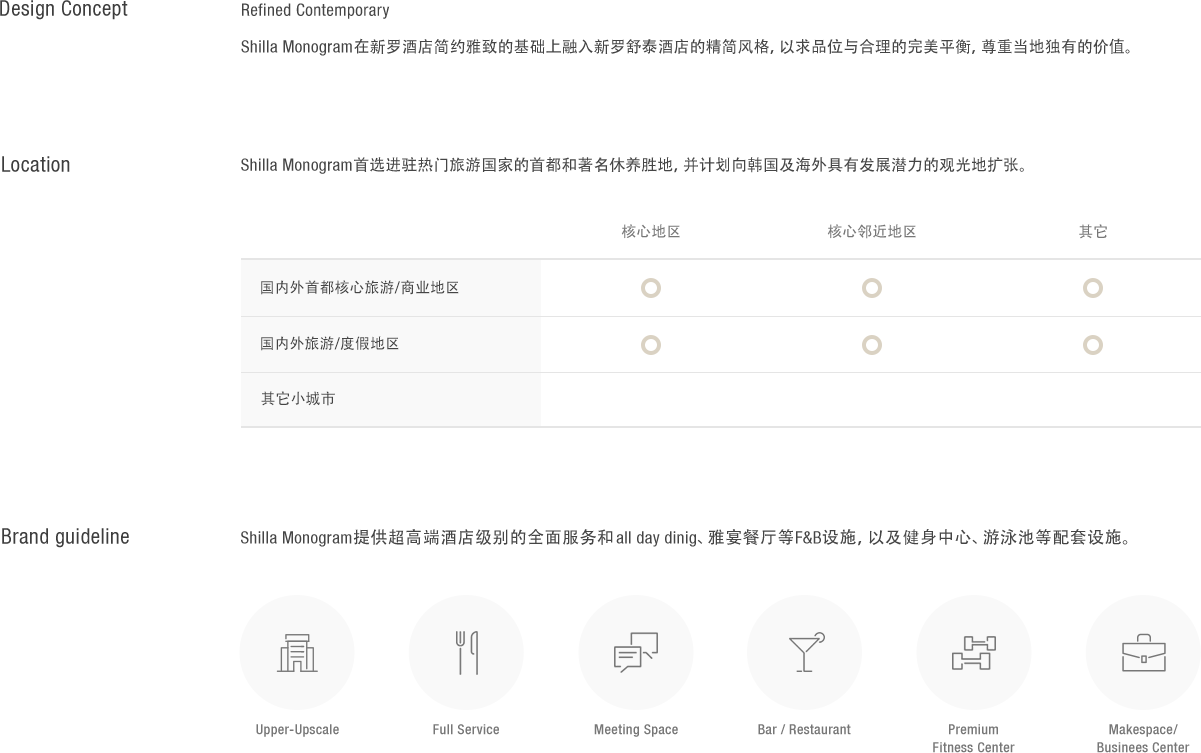
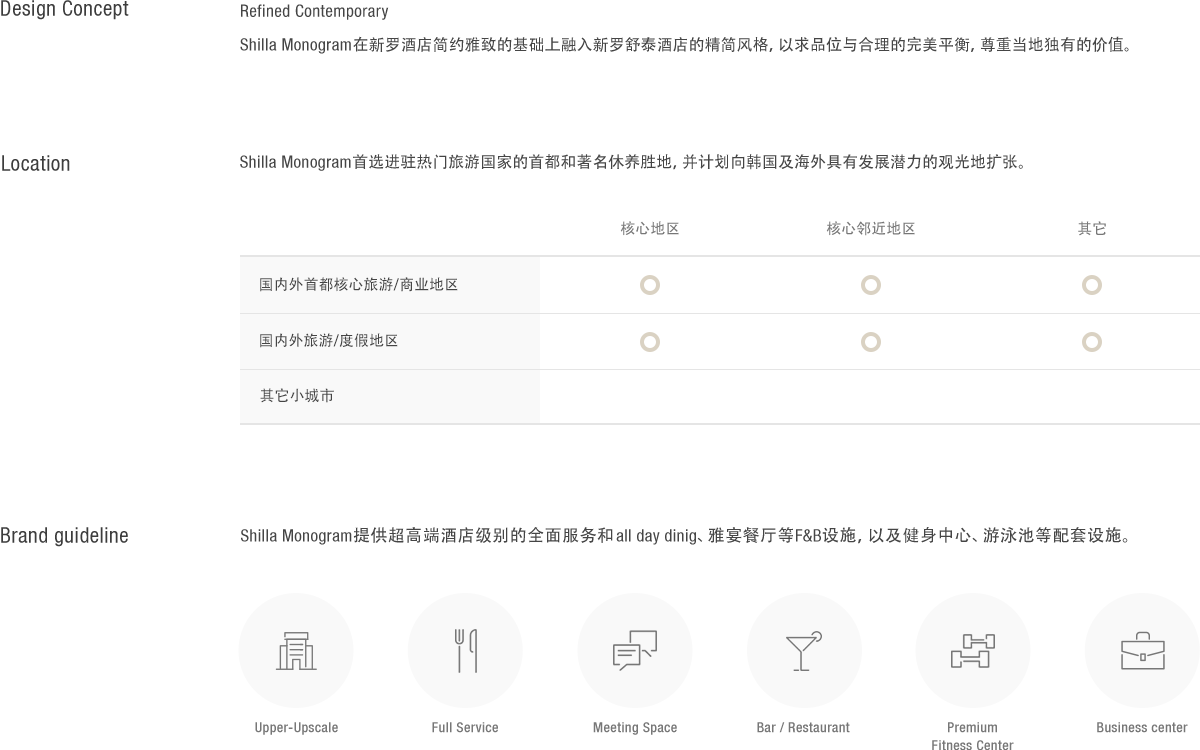
업댓

diff --git a/pc_zh.css b/pc_zh.css
@@ -4,16 +4,16 @@
 .SubControl{position: relative;left: 50%;margin: 0 0 0 -960px;width: 1920px;}
 .HotelDevelopInfo, .OurBrands, .ShillaSwiper, .MapTab, .HotelShilla, .Project, .HotelDevelopBtn, .Growth, .HotelDevelopBtn{position: relative;margin:0 auto;text-align: center;}
 /* 구간별 여백 정리 */
-.HotelDevelopInfo{padding: 80px 0 50px;}
-.HotelDevelopInfo .Hospitality{padding-top: 100px;}
-.HotelDevelopInfo .Global{padding-top: 80px;}
-.HotelDevelopMap{width: 100%;padding-top: 40px;background: #f7f7f7;}
-.OurBrands{padding: 80px 0;}
-.ShillaSwiper-inner-01{padding: 80px 0 50px;}
-.ShillaSwiper-inner-02{padding: 50px 0 80px;}
-.HotelShillaList{width: 100%;padding: 80px 0;background: #f1ead8;}
-.Project{padding-top: 80px;}
-.Growth{padding: 80px 0;}
+.HotelDevelopInfo{margin: 80px 0 50px;}
+.HotelDevelopInfo .Hospitality{margin: 80px 0;}
+.HotelDevelopInfo .Global{margin: 80px 0 50px;}
+.HotelDevelopMap{width: 100%;margin: 50px 0 80px;padding-top: 40px;background: #f7f7f7;}
+.OurBrands{margin: 80px 0;}
+.ShillaSwiper-inner-01{margin: 80px 0 50px;}
+.ShillaSwiper-inner-02{margin: 50px 0 80px;}
+.HotelShillaList{width: 100%;margin: 80px 0;padding: 80px 0;background: #f1ead8;}
+.Project{margin: 80px 0;}
+.Growth{margin: 80px 0;}
 /* contain */
 .MapTabs .MapTabsWrap{position: relative;}
 .MapTabs .Tabs, .Intro {overflow: hidden;position: absolute;display: flex;align-items: center;justify-content: center;list-style: none;width: 100%;z-index: 1;}
@@ -24,17 +24,15 @@
 .IntroBar{position: relative;top: 43px;z-index: 1;height: 1px;background: #e5e5e5;}
 .IntroWrap .Intro{position: relative;}
 .IntroWrap .Intro li a {display: flex;}
-.IntroSwiper .swiper-container{width: 1200px;padding-bottom: 23px;}
+.IntroSwiper .swiper-container{width: 1200px;padding-bottom: 23px;margin: 50px auto;}
 .IntroSwiper .swiper-pagination{bottom: 0;font-size: 15px;color: #999;text-align: right;}
 .IntroSwiper .swiper-pagination-current{color: #101010;font-weight: bold;}
 .IntroSwiper .swiper-pagination-total{color: #999;}
 .IntroSwiper .swiper-button-prev{top: 50%;left: 0px;transform: translateY(-50%);margin: 0;position: absolute;z-index: 10;width: 60px;height: 65px !important;background: url(https://www.shilla.net/images/ko/jeju/main/slidePrev.png) no-repeat 0px 0px;text-indent: -9999%;overflow: hidden;margin-top: -28px;}
 .IntroSwiper .swiper-button-next{top: 50%;right: 0px;transform: translateY(-50%);margin: 0;position: absolute;z-index: 10;width: 60px;height: 65px !important;background: url(https://www.shilla.net/images/ko/jeju/main/slideNext.png) no-repeat 0px 0px;text-indent: -9999%;overflow: hidden;margin-top: -26px;}
 /* button */
-.HotelDevelop .btnSet{display: flex;justify-content: center;height: unset;margin-bottom: 150px;}
+.HotelDevelop .btnSet{display: flex;justify-content: center;height: unset;margin: 80px 0 150px;}
 .HotelDevelop .btnSet li{width:unset;margin-right: 10px;}
-/* hidden */
-table{text-align: left;}
 /* 공통 main.css 푸터부분 수정 css */
 .foot .localBox .linkInfo .introduction dd{margin: 0 !important;}
 .foot .localBox .linkInfo .introduction dd.d2 a{width: 82px !important;}
@@ -45,6 +43,6 @@ table{text-align: left;}
 .foot .localBox .linkInfo .ContactInfo{width: 410px !important;}
 .foot .localBox .linkInfo .ContactInfo::after{content: '';width: 1px;height: 50px;background: #e8e3ce;position: absolute;top: 0;right: 0;}
 .foot .localBox .linkInfo .ContactInfo dd{width: 410px !important;}
-
 /* 이미지 히든 텍스트 */
 .hidden{display: none;}
+.hidden table{text-align: left;}

diff --git a/pc_ko.css b/pc_ko.css
@@ -4,16 +4,16 @@
 .SubControl{position: relative;left: 50%;margin: 0 0 0 -960px;width: 1920px;}
 .HotelDevelopInfo, .OurBrands, .ShillaSwiper, .MapTab, .HotelShilla, .Project, .HotelDevelopBtn, .Growth, .HotelDevelopBtn{position: relative;margin:0 auto;text-align: center;}
 /* 구간별 여백 정리 */
-.HotelDevelopInfo{padding: 80px 0 50px;}
-.HotelDevelopInfo .Hospitality{padding-top: 100px;}
-.HotelDevelopInfo .Global{padding-top: 80px;}
-.HotelDevelopMap{width: 100%;padding-top: 40px;background: #f7f7f7;}
-.OurBrands{padding: 80px 0;}
-.ShillaSwiper-inner-01{padding: 80px 0 50px;}
-.ShillaSwiper-inner-02{padding: 50px 0 80px;}
-.HotelShillaList{width: 100%;padding: 80px 0;background: #f1ead8;}
-.Project{padding-top: 80px;}
-.Growth{padding: 80px 0;}
+.HotelDevelopInfo{margin: 80px 0 50px;}
+.HotelDevelopInfo .Hospitality{margin: 80px 0;}
+.HotelDevelopInfo .Global{margin: 80px 0 50px;}
+.HotelDevelopMap{width: 100%;margin: 50px 0 80px;padding-top: 40px;background: #f7f7f7;}
+.OurBrands{margin: 80px 0;}
+.ShillaSwiper-inner-01{margin: 80px 0 50px;}
+.ShillaSwiper-inner-02{margin: 50px 0 80px;}
+.HotelShillaList{width: 100%;margin: 80px 0;padding: 80px 0;background: #f1ead8;}
+.Project{margin: 80px 0;}
+.Growth{margin: 80px 0;}
 /* contain */
 .MapTabs .MapTabsWrap{position: relative;}
 .MapTabs .Tabs, .Intro {overflow: hidden;position: absolute;display: flex;align-items: center;justify-content: center;list-style: none;width: 100%;z-index: 1;}
@@ -24,22 +24,22 @@
 .IntroBar{position: relative;top: 43px;z-index: 1;height: 1px;background: #e5e5e5;}
 .IntroWrap .Intro{position: relative;}
 .IntroWrap .Intro li a {display: flex;}
-.IntroSwiper .swiper-container{width: 1200px; padding-bottom: 23px;}
+.IntroSwiper .swiper-container{width: 1200px; padding-bottom: 23px;margin: 50px auto;}
 .IntroSwiper .swiper-pagination{bottom: 0;font-size: 15px;color: #999;text-align: right;}
 .IntroSwiper .swiper-pagination-current{color: #101010;font-weight: bold;}
 .IntroSwiper .swiper-pagination-total{color: #999;}
 .IntroSwiper .swiper-button-prev{top: 50%;left: 0px;transform: translateY(-50%);margin: 0;position: absolute;z-index: 10;width: 60px;height: 65px !important;background: url(https://www.shilla.net/images/ko/jeju/main/slidePrev.png) no-repeat 0px 0px;text-indent: -9999%;overflow: hidden;margin-top: -28px;}
 .IntroSwiper .swiper-button-next{top: 50%;right: 0px;transform: translateY(-50%);margin: 0;position: absolute;z-index: 10;width: 60px;height: 65px !important;background: url(https://www.shilla.net/images/ko/jeju/main/slideNext.png) no-repeat 0px 0px;text-indent: -9999%;overflow: hidden;margin-top: -26px;}
 /* button */
-.HotelDevelop .btnSet{display: flex;justify-content: center;height: unset;margin-bottom: 150px;}
+.HotelDevelop .btnSet{display: flex;justify-content: center;height: unset;margin: 80px 0 150px;}
 .HotelDevelop .btnSet li{width:unset;margin-right: 10px;}
-/* hidden */
-.hidden table{text-align: left;}
 /* 공통 main.css 푸터부분 수정 css */
 .foot .localBox .linkInfo .introduction dd.d2 a{width: 83px !important;}
 .foot .localBox .linkInfo .introduction dd.d3 a{width: 77px !important;}
 .foot .localBox .linkInfo .introduction dd.d8 a {width: 84px !important;}
 .foot .localBox .linkInfo .introduction{background: url(./images/ko/hub/sub/HublocalBoxLinkInfo.gif) no-repeat 0px 0 !important;}
-
+/* 이미지 히든 텍스트 */
+.hidden{display: none;}
+.hidden table{text-align: left;}
 
 

diff --git a/pc_en.css b/pc_en.css
@@ -4,16 +4,16 @@
 .SubControl{position: relative;left: 50%;margin: 0 0 0 -960px;width: 1920px;}
 .HotelDevelopInfo, .OurBrands, .ShillaSwiper, .MapTab, .HotelShilla, .Project, .HotelDevelopBtn, .Growth, .HotelDevelopBtn{position: relative;;margin:0 auto;text-align: center;}
 /* 구간별 여백 정리 */
-.HotelDevelopInfo{padding: 80px 0 50px;}
-.HotelDevelopInfo .Hospitality{padding-top: 100px;}
-.HotelDevelopInfo .Global{padding-top: 80px;}
-.HotelDevelopMap{width: 100%;padding-top: 40px;background: #f7f7f7;}
-.OurBrands{padding: 80px 0;}
-.ShillaSwiper-inner-01{padding: 80px 0 50px;}
-.ShillaSwiper-inner-02{padding: 50px 0 80px;}
-.HotelShillaList{width: 100%;padding: 80px 0;background: #f1ead8;}
-.Project{padding-top: 80px;}
-.Growth{padding: 80px 0;}
+.HotelDevelopInfo{margin: 80px 0 50px;}
+.HotelDevelopInfo .Hospitality{margin: 80px 0;}
+.HotelDevelopInfo .Global{margin: 80px 0 50px;}
+.HotelDevelopMap{width: 100%;margin: 50px 0 80px;padding-top: 40px;background: #f7f7f7;}
+.OurBrands{margin: 80px 0;}
+.ShillaSwiper-inner-01{margin: 80px 0 50px;}
+.ShillaSwiper-inner-02{margin: 50px 0 80px;}
+.HotelShillaList{width: 100%;margin: 80px 0;padding: 80px 0;background: #f1ead8;}
+.Project{margin: 80px 0;}
+.Growth{margin: 80px 0;}
 /* contain */
 .MapTabs .MapTabsWrap{position: relative;}
 .MapTabs .Tabs, .Intro {overflow: hidden;position: absolute;display: flex;align-items: center;justify-content: center;list-style: none;width: 100%;z-index: 1;}
@@ -24,17 +24,15 @@
 .IntroBar{position: relative;top: 43px;z-index: 1;height: 1px;background: #e5e5e5;}
 .IntroWrap .Intro{position: relative;}
 .IntroWrap .Intro li a {display: flex;}
-.IntroSwiper .swiper-container{width: 1200px;padding-bottom: 23px;}
+.IntroSwiper .swiper-container{width: 1200px;padding-bottom: 23px;margin: 50px auto;}
 .IntroSwiper .swiper-pagination{bottom: 0;font-size: 15px;color: #999;text-align: right;}
 .IntroSwiper .swiper-pagination-current{color: #101010;font-weight: bold;}
 .IntroSwiper .swiper-pagination-total{color: #999;}
 .IntroSwiper .swiper-button-prev{top: 50%;left: 0px;transform: translateY(-50%);margin: 0;position: absolute;z-index: 10;width: 60px;height: 65px !important;background: url(https://www.shilla.net/images/ko/jeju/main/slidePrev.png) no-repeat 0px 0px;text-indent: -9999%;overflow: hidden;margin-top: -28px;}
 .IntroSwiper .swiper-button-next{top: 50%;right: 0px;transform: translateY(-50%);margin: 0;position: absolute;z-index: 10;width: 60px;height: 65px !important;background: url(https://www.shilla.net/images/ko/jeju/main/slideNext.png) no-repeat 0px 0px;text-indent: -9999%;overflow: hidden;margin-top: -26px;}
 /* button */
-.HotelDevelop .btnSet{display: flex;justify-content: center;height: unset;margin-bottom: 150px;}
+.HotelDevelop .btnSet{display: flex;justify-content: center;height: unset;margin: 80px 0 150px;}
 .HotelDevelop .btnSet li{width:unset;margin-right: 10px;}
-/* hidden */
-.hidden table{text-align: left;}
 /* 공통 main.css 푸터부분 수정 css */
 .foot .localBox .linkInfo .introduction dd{margin: 0 !important;}
 .foot .localBox .linkInfo .introduction dd.d2 a{width: 133px !important;}
@@ -47,3 +45,4 @@
 .foot .localBox .linkInfo .ContactInfo dd{width: 410px !important;}
 /* 이미지 히든 텍스트 */
 .hidden{display: none;}
+.hidden table{text-align: left;}

diff --git a/index_zh.html b/index_zh.html
@@ -999,7 +999,7 @@
                                                         <li>Meeting Space</li>
                                                         <li>Bar / Restaurant</li>
                                                         <li>Spa</li>
-                                                        <li>Premium Workout Facility</li>
+                                                        <li>Premium Fitness Center</li>
                                                     </ul>
                                                 </dd>
                                             </dl>
@@ -1104,6 +1104,16 @@
                                                 </dd>
                                                 <dt>Brand guideline</dt>
                                                 <dd>Shilla Monogram提供超高端酒店级别的全面服务和ADD、雅宴餐厅等F&B设施，以及健身中心、游泳池等配套设施。</dd>
+                                                <dd>
+                                                    <ul>
+                                                        <li>Upper-Upscale</li>
+                                                        <li>Full Service</li>
+                                                        <li>Meeting Space</li>
+                                                        <li>Bar / Restaurant</li>
+                                                        <li>Premium Fitness Center</li>
+                                                        <li>Business Center</li>
+                                                    </ul>
+                                                </dd>
                                             </dl>
                                         </div>
                                     </div>

diff --git a/mo_en.css b/mo_en.css
@@ -11,7 +11,6 @@
 .ShillaSwiper-inner-01{padding: 0 15px 30px;}
 .ShillaSwiper-inner-02 > dl {padding: 0 15px;}
 .BrandGuidelines{padding: 0 15px;}
-/* .ShillaSwiper-inner-02 dl:nth-of-type(2){padding-bottom: 30px;} */
 .ShillaSwiper-inner-02 dt:nth-of-type(2){padding-bottom: 20px;}
 .LocationsTable{margin: 0 auto;padding: 30px 15px 0;text-align: center;}
 .LocationsTable table{width: 100%;border-spacing: 0;}
@@ -21,9 +20,9 @@
 .LocationsTable .board_list td, .LocationsTable .board_list th{width: 81px;border-bottom: 1px solid #ddd;word-break: keep-all;font-weight: 500;font-size: 12.5px;text-align: center;}
 .LocationsTable .board_list thead th{padding-bottom: 10px;border-bottom: 3px solid rgb(229, 229, 229);}
 .LocationsTable .board_list tr.last th, .LocationsTable .board_list tr.last td{border-bottom: 3px solid rgb(229, 229, 229);}
-.BrandGuidelines > img {width: calc(100% - 15px);padding-top: 30px;}
+.BrandGuidelines > img {padding-top: 30px;}
 .HotelShillaList{padding: 0 15px 30px;background: rgb(241, 234, 215);}
-.HotelShillaList dl{padding-bottom: 40px;}
+.HotelShillaList dl{padding-bottom: 30px;}
 .HotelShillaListCon {display:flex; gap:10px; align-items: center; justify-content: center; width: 100%;flex-wrap: wrap;}
 .HotelShillaListCon .square {position: relative; width: 30%; padding-bottom: 30%; background: #fff;} 
 .HotelShillaListCon .square .content {position: absolute; top: 0; right: 0; bottom: 0; left: 0; font-weight: bold; margin: auto; height: 22px; text-align: center;}

diff --git a/mo_ko.css b/mo_ko.css
@@ -11,7 +11,6 @@
 .ShillaSwiper-inner-01{padding: 0 15px 30px;}
 .ShillaSwiper-inner-02 > dl {padding: 0 15px;}
 .BrandGuidelines{padding: 0 15px;}
-/* .ShillaSwiper-inner-02 dl:nth-of-type(2){padding-bottom: 30px;} */
 .ShillaSwiper-inner-02 dt:nth-of-type(2){padding-bottom: 20px;}
 .LocationsTable{margin: 0 auto;padding: 30px 15px 0;text-align: center;}
 .LocationsTable table{width: 100%;border-spacing: 0;}
@@ -21,9 +20,9 @@
 .LocationsTable .board_list td, .LocationsTable .board_list th{width: 81px;border-bottom: 1px solid #ddd;word-break: keep-all;font-weight: 500;font-size: 12.5px;text-align: center;}
 .LocationsTable .board_list thead th{padding-bottom: 10px;border-bottom: 3px solid rgb(229, 229, 229);}
 .LocationsTable .board_list tr.last th, .LocationsTable .board_list tr.last td{border-bottom: 3px solid rgb(229, 229, 229);}
-.BrandGuidelines > img {width: calc(100% - 15px);padding-top: 30px;}
+.BrandGuidelines > img {padding-top: 30px;}
 .HotelShillaList{padding: 0 15px 30px;background: rgb(241, 234, 215);}
-.HotelShillaList dl{padding-bottom: 40px;}
+.HotelShillaList dl{padding-bottom: 30px;}
 .HotelShillaListCon {display:flex; gap:10px; align-items: center; justify-content: center; width: 100%;flex-wrap: wrap;}
 .HotelShillaListCon .square {position: relative; width: 30%; padding-bottom: 30%; background: #fff;} 
 .HotelShillaListCon .square .content {position: absolute; top: 0; right: 0; bottom: 0; left: 0; font-weight: bold; margin: auto; height: 22px; text-align: center;}

diff --git a/mo_zh.css b/mo_zh.css
@@ -11,7 +11,6 @@
 .ShillaSwiper-inner-01{padding: 0 15px 30px;}
 .ShillaSwiper-inner-02 > dl{padding: 0 15px;}
 .BrandGuidelines{padding: 0 15px;}
-/* .ShillaSwiper-inner-02 dl:nth-of-type(2){padding-bottom: 30px;} */
 .ShillaSwiper-inner-02 dt:nth-of-type(2){padding-bottom: 20px;}
 .LocationsTable{margin: 0 auto;padding: 30px 15px 0;text-align: center;}
 .LocationsTable table{width: 100%;border-spacing: 0;}
@@ -21,9 +20,9 @@
 .LocationsTable .board_list td, .LocationsTable .board_list th{width: 81px;border-bottom: 1px solid #ddd;word-break: keep-all;font-weight: 500;font-size: 12.5px;text-align: center;}
 .LocationsTable .board_list thead th{padding-bottom: 10px;border-bottom: 3px solid rgb(229, 229, 229);}
 .LocationsTable .board_list tr.last th, .LocationsTable .board_list tr.last td{border-bottom: 3px solid rgb(229, 229, 229);}
-.BrandGuidelines > img {width: calc(100% - 15px);padding-top: 30px;}
+.BrandGuidelines > img {padding-top: 30px;}
 .HotelShillaList{padding: 0 15px 30px;background: rgb(241, 234, 215);}
-.HotelShillaList dl{padding-bottom: 40px;}
+.HotelShillaList dl{padding-bottom: 30px;}
 .HotelShillaListCon {display:flex; gap:10px; align-items: center; justify-content: center; width: 100%;flex-wrap: wrap;}
 .HotelShillaListCon .square {position: relative; width: 30%; padding-bottom: 30%; background: #fff;} 
 .HotelShillaListCon .square .content {position: absolute; top: 0; right: 0; bottom: 0; left: 0; font-weight: bold; margin: auto; height: 22px; text-align: center;}

diff --git a/index.html b/index.html
@@ -977,7 +977,7 @@
                                                         <li>Meeting Space</li>
                                                         <li>Bar / Restaurant</li>
                                                         <li>Spa</li>
-                                                        <li>Premium Workout Facility</li>
+                                                        <li>Premium Fitness Center</li>
                                                     </ul>
                                                 </dd>
                                             </dl>
@@ -1082,7 +1082,7 @@
                                                         <li>Meeting Space</li>
                                                         <li>Bar / Restaurant</li>
                                                         <li>Premium Fitness Center</li>
-                                                        <li>Makespace / Businees Center</li>
+                                                        <li>Business Center</li>
                                                     </ul>
                                                 </dd>
                                             </dl>

diff --git a/index_en.html b/index_en.html
@@ -996,7 +996,7 @@
                                                         <li>Meeting Space</li>
                                                         <li>Bar / Restaurant</li>
                                                         <li>Spa</li>
-                                                        <li>Premium Workout Facility</li>
+                                                        <li>Premium Fitness Center</li>
                                                     </ul>
                                                 </dd>
                                             </dl>
@@ -1110,7 +1110,7 @@
                                                         <li>Meeting Space</li>
                                                         <li>Bar / Restaurant</li>
                                                         <li>Premium Fitness Center</li>
-                                                        <li>Makespace / Businees Center</li>
+                                                        <li>Business Center</li>
                                                     </ul>
                                                 </dd>
                                             </dl>

diff --git a/index_mo_ko.html b/index_mo_ko.html
@@ -2993,7 +2993,7 @@
                                         <li>Meeting Space</li>
                                         <li>Bar / Restaurant</li>
                                         <li>Spa</li>
-                                        <li>Premium Workout Facility</li>
+                                        <li>Premium Fitness Center</li>
                                     </ul>
                                 </div>
                             </div>
@@ -3115,7 +3115,7 @@
                                         <li>Meeting Space</li>
                                         <li>Bar / Restaurant</li>
                                         <li>Premium Fitness Center</li>
-                                        <li>Makespace / Businees Center</li>
+                                        <li>Business center</li>
                                     </ul>
                                 </div>
                             </div>

diff --git a/index_mo_zh.html b/index_mo_zh.html
@@ -3037,7 +3037,7 @@
                                         <li>Meeting Space</li>
                                         <li>Bar / Restaurant</li>
                                         <li>Spa</li>
-                                        <li>Premium Workout Facility</li>
+                                        <li>Premium Fitness Center</li>
                                     </ul>
                                 </div>
                             </div>
@@ -3167,7 +3167,7 @@
                                         <li>Meeting Space</li>
                                         <li>Bar / Restaurant</li>
                                         <li>Premium Fitness Center</li>
-                                        <li>Makespace / Businees Center</li>
+                                        <li>Business center</li>
                                     </ul>
                                 </div>
                             </div>

diff --git a/index_mo_en.html b/index_mo_en.html
@@ -3179,7 +3179,7 @@
                                         <li>Meeting Space</li>
                                         <li>Bar / Restaurant</li>
                                         <li>Premium Fitness Center</li>
-                                        <li>Makespace / Businees Center</li>
+                                        <li>Business center</li>
                                     </ul>
                                 </div>
                             </div>
